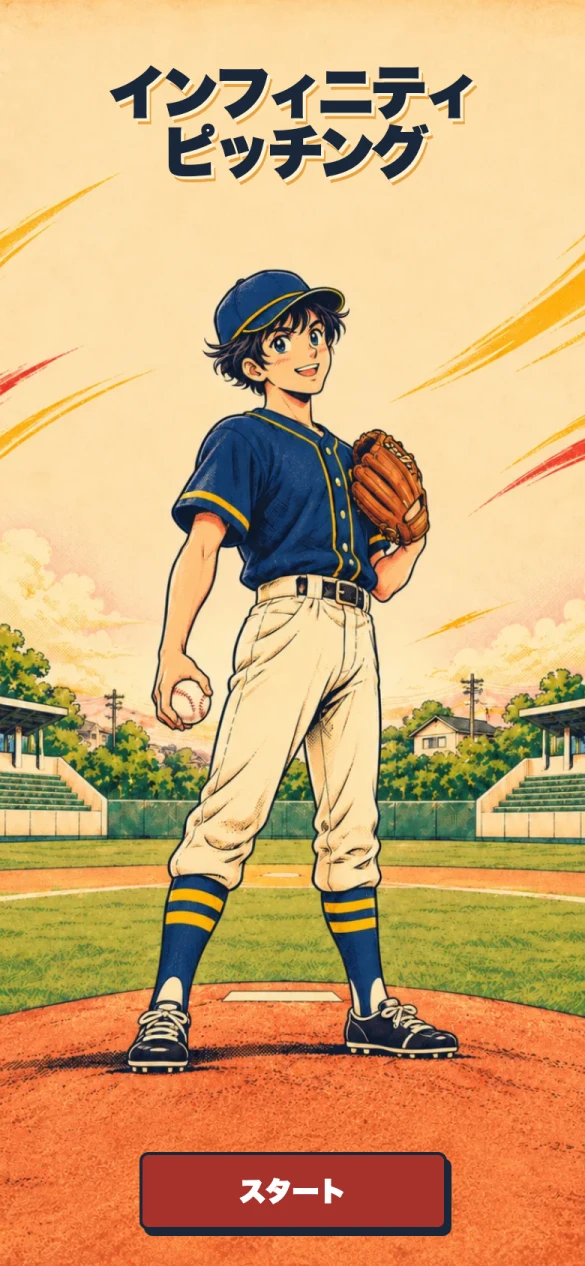
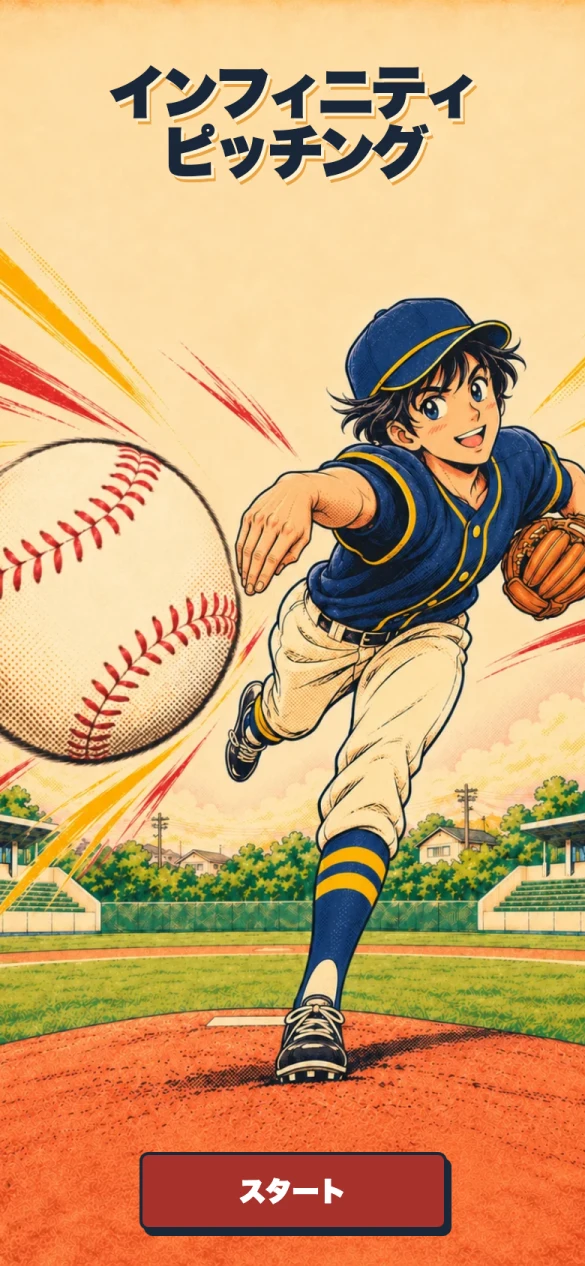
Use a single release illustration for title and menu

diff --git a/docs/renewal/menu.js b/docs/renewal/menu.js
@@ -33,13 +33,11 @@ const masthead = document.querySelector('.masthead');
 const format = new Intl.NumberFormat('ja-JP');
 const WORLD_UNLOCK_SCORE = 31;
 const MATCH_SECONDS = 20;
-const PITCH_DURATION_MS = 3040; // Total frame duration of title-pitch.gif.
 const title = '<span>インフィニティ</span><span>ピッチング</span>';
+const titleArt = '<img class="scene-art" src="assets/title-pitch-finish.webp" alt="ピッチャーが投げたボールが手前に迫る場面" fetchpriority="high">';
 let player = { ...scenarios.new };
 let page;
 let matchTimer;
-let pitchTimer;
-let pitchRun = 0;
 let requestedMode = 'home';
 let rankMode = 'world';
 let rankScope = 'global';
@@ -84,7 +82,7 @@ function home() {
   const rating = unlocked ? format.format(player.rating) : '—';
 
   return `<section class="portrait-scene lobby" aria-label="メインメニュー">
-    <img class="scene-art" src="assets/title-pitch-finish.webp" alt="ピッチャーが投げたボールが手前に迫る場面" fetchpriority="high">
+    ${titleArt}
     <nav class="corner-menu" aria-label="サブメニュー">
       ${action('TOP 1000', 'ranking', 'corner-button rank-button')}
       <div class="corner-group">
@@ -168,14 +166,9 @@ function settings() {
 const renderers = {
   splash: () => `
     <section class="portrait-scene opening" aria-labelledby="opening-title">
-      <img class="scene-art" src="assets/opening-fullshot.webp" alt="放課後のグラウンドでマウンドに立つピッチャー" fetchpriority="high">
+      ${titleArt}
       <h2 id="opening-title" class="game-title" tabindex="-1">${title}</h2>
-      ${action('スタート', 'pitch')}
-    </section>`,
-  pitch: () => `
-    <section class="portrait-scene pitch-scene" aria-label="投球アニメーション">
-      <img class="scene-art" src="assets/opening-fullshot.webp" alt="">
-      ${action('スキップ', 'home', 'skip-pitch')}
+      ${action('スタート', 'home')}
     </section>`,
   name: () => panel('選手名を登録', `
     <form class="form" id="name-form">
@@ -259,43 +252,13 @@ function startMatching() {
 
 function navigate(next, focus = true) {
   clearInterval(matchTimer);
-  clearTimeout(pitchTimer);
   page = next === 'world' && !canEnterWorld() ? 'unlock' : next;
   display.innerHTML = renderers[page]();
   const playerLabel = player.name || 'ゲスト';
   display.querySelectorAll('[data-player-name]').forEach(element => { element.textContent = playerLabel; });
-  masthead.hidden = ['splash', 'pitch', 'home', 'name'].includes(page);
+  masthead.hidden = ['splash', 'home', 'name'].includes(page);
   if (page === 'matching') startMatching();
-  if (focus) display.querySelector('h2, .skip-pitch')?.focus();
-}
-
-function playPitch() {
-  if (page !== 'splash') return;
-  if (matchMedia('(prefers-reduced-motion: reduce)').matches) {
-    navigate('home');
-    return;
-  }
-
-  navigate('pitch');
-  const scene = display.querySelector('.pitch-scene');
-  const still = scene.querySelector('.scene-art');
-  const animation = new Image();
-  animation.className = 'scene-art';
-  animation.alt = '';
-  animation.fetchPriority = 'high';
-  const finish = () => {
-    if (scene.isConnected) navigate('home');
-  };
-  pitchTimer = setTimeout(finish, 4000);
-  animation.onload = () => {
-    if (!still.isConnected) return;
-    still.replaceWith(animation);
-    clearTimeout(pitchTimer);
-    pitchTimer = setTimeout(finish, PITCH_DURATION_MS);
-  };
-  animation.onerror = finish;
-  const run = pitchRun++;
-  animation.src = run === 0 ? 'assets/title-pitch.gif' : `assets/title-pitch.gif?replay=${run}`;
+  if (focus) display.querySelector('h2')?.focus();
 }
 
 function chooseScenario(key) {
@@ -321,7 +284,6 @@ document.addEventListener('click', event => {
   if (!button) return;
   const { scenario, go, rankMode: modeFilter, rankScope: scopeFilter, equip } = button.dataset;
   if (scenario) chooseScenario(scenario);
-  else if (go === 'pitch') playPitch();
   else if (['solo', 'world', 'friend'].includes(go) && !player.name) {
     requestedMode = go;
     navigate('name');

diff --git a/docs/renewal/menu.html b/docs/renewal/menu.html
@@ -5,7 +5,6 @@
   <meta name="viewport" content="width=device-width, initial-scale=1, viewport-fit=cover">
   <title>インフィニティピッチング · 타이틀 시안</title>
   <link rel="stylesheet" href="menu.css">
-  <link rel="preload" href="assets/title-pitch.gif" as="image" fetchpriority="low">
   <link rel="preload" href="assets/title-pitch-finish.webp" as="image">
   <script src="menu.js" defer></script>
 </head>
@@ -14,7 +13,7 @@
     <aside class="review-note" aria-labelledby="review-heading">
       <p class="folio">INFINITY PITCHING / DESIGN STUDY</p>
       <h1 id="review-heading">인피니티<br>피칭<span>.</span></h1>
-      <p class="review-copy">일본어 타이틀에서 시작을 누르면 투구 장면을 거쳐 게임 메뉴가 나타납니다. 선수 상태를 바꿔 31점 해금 전후의 메뉴를 확인할 수 있습니다.</p>
+      <p class="review-copy">일본어 타이틀에서 시작을 누르면 투구 일러스트 위에 메뉴가 나타납니다. 선수 상태를 바꿔 31점 해금 전후의 메뉴를 확인할 수 있습니다.</p>
       <fieldset class="scenario">
         <legend>선수 상태</legend>
         <button type="button" data-scenario="new" aria-pressed="true">타이틀 다시 보기</button>

diff --git a/docs/renewal/menu.css b/docs/renewal/menu.css
@@ -132,13 +132,7 @@ h1, h2, h3, p { margin: 0; }
   width: min(100%, 205px);
   font-size: 18px;
 }
-.pitch-scene {
-  display: flex;
-  justify-content: end;
-  align-items: end;
-  padding: 16px max(16px, env(safe-area-inset-right)) max(16px, env(safe-area-inset-bottom)) 16px;
-}
-.skip-pitch, .corner-button {
+.corner-button {
   min-width: 44px;
   min-height: 44px;
   border: 2px solid var(--ink);
@@ -148,7 +142,6 @@ h1, h2, h3, p { margin: 0; }
   font-weight: 900;
   box-shadow: 2px 2px 0 var(--ink);
 }
-.skip-pitch { padding-inline: 11px; font-size: 13px; }
 .lobby {
   display: grid;
   grid-template-rows: auto auto 1fr auto;
@@ -314,7 +307,7 @@ input[type="range"] { width: 100%; min-height: 44px; margin: 0; accent-color: va
 }
 @media (max-width: 480px) {
   .review:has(.portrait-scene) { grid-template-columns: minmax(0, 1fr); }
-  .review:has(.opening, .pitch-scene) .review-note { display: none; }
+  .review:has(.opening) .review-note { display: none; }
   .portrait-scene { aspect-ratio: auto; }
 }
 @media (max-width: 359px) {

diff --git a/docs/renewal/README.md b/docs/renewal/README.md
@@ -2,26 +2,25 @@
 
 **방과 후 야구부**를 게임 전체의 얼굴로 잡는다. 예전 야구 만화의 검은 외곽선, 망점 인쇄, 종이색, 큰 공의 원근감을 활용한다. 주인공은 15–16세 정도의 야구부 선수로, 작은 체격과 둥근 얼굴선, 밝고 집중한 표정, 여유 있는 유니폼을 쓴다. 특정 성별로 강하게 읽히는 얼굴이나 체격을 피하고, 투구의 힘은 손과 공의 원근, 대각선 구도와 스피드라인으로 표현한다. 참고 사진의 캐릭터, 팀명, 모자 로고는 게임 고유의 디자인으로 새로 만든다.
 
-[타이틀부터 체험](menu.html) · [오프닝 미리보기](assets/opening-preview.webp) · [투구 GIF](assets/title-pitch.gif) · [메뉴 미리보기](assets/menu-preview.webp) · [인게임 아트 보드](assets/field-studies.webp)
+[타이틀부터 체험](menu.html) · [오프닝 미리보기](assets/opening-preview.webp) · [투구 일러스트](assets/title-pitch-finish.webp) · [메뉴 미리보기](assets/menu-preview.webp) · [인게임 아트 보드](assets/field-studies.webp)
 
 ![투구가 끝난 뒤 인피니티 피칭 메인 메뉴](assets/menu-preview.webp)
 
 ## 타이틀에서 메인 메뉴로
 
-1. 9:16 오프닝에 마운드에 선 투수의 전신과 일본어 타이틀 **インフィニティピッチング**을 보여준다.
-2. ‘スタート’를 누르면 오른손 투수가 오른발을 축으로 왼무릎을 들고, 왼발을 디딘 뒤 오른손으로 던진다. 첫 자세와 마지막 원근 컷을 연결한 [Magnific 연속 영상](https://www.magnific.com/app/creation/eIyBZmJdqL)에서 73개 프레임을 그대로 추출했다. GIF는 3.04초이며 한 번 재생한다.
-3. GIF의 마지막 프레임을 고화질 정지 화면으로 이어 붙인다. 화면 앞까지 다가온 공과 투수의 자세가 고정된 상태에서 좌상단에 **TOP 1000**, 우상단에 **컬렉션·설정**, 가운데에 기존 말풍선을 띄운다. 하단에는 선수 기록, 세 게임 모드와 플레이·구매 정보를 표시한다.
+1. 9:16 화면에 공이 카메라 앞으로 크게 날아오는 투구 직후 일러스트와 일본어 타이틀 **インフィニティピッチング**을 보여준다.
+2. ‘スタート’를 누르면 같은 일러스트 위에 바로 메뉴가 뜬다. 좌상단에 **TOP 1000**, 우상단에 **컬렉션·설정**, 가운데에 기존 말풍선을 표시한다. 하단에는 선수 기록, 세 게임 모드와 플레이·구매 정보를 둔다.
 
 > よしっ！世界一のピッチャーになるために、<br>
 > 今日も特訓だ！
 
-‘スキップ’을 누르거나 기기에 동작 줄이기가 설정되어 있으면 고정 컷과 메뉴를 바로 보여준다. 첫 접속에는 게스트 상태로 홈을 먼저 둘러볼 수 있고, 처음 게임 모드를 선택할 때 선수 이름 등록을 안내한다.
+첫 접속에는 게스트 상태로 홈을 먼저 둘러볼 수 있고, 처음 게임 모드를 선택할 때 선수 이름 등록을 안내한다.
 
 ## 일러스트 방향
 
 | 시안 | 그림과 색 | 배치 |
 | --- | --- | --- |
-| **A. 방과 후 야구부 · 메인** | 아이보리 종이, 잉크 남색 유니폼, 머스터드 햇빛, 주홍 스피드라인. 오프닝은 마운드 위 투수의 전신, 홈은 공이 카메라를 향해 날아드는 투구 직후의 원근 컷을 담는다. | 오프닝, 홈, 앱 대표 이미지 |
+| **A. 방과 후 야구부 · 메인** | 아이보리 종이, 잉크 남색 유니폼, 머스터드 햇빛, 주홍 스피드라인. 타이틀과 홈에서 공이 카메라를 향해 날아드는 동일한 원근 컷을 사용한다. | 오프닝, 홈, 앱 대표 이미지 |
 | **B. 동네 연습장 · 솔로/친구** | 낮은 관중석, 흙빛 마운드, 잔디색. 좌우 가장자리에 배경 요소를 두고, 번호판 뒤는 낮은 대비의 큰 색면을 사용한다. | 나홀로 특훈, 친구와 특훈, 튜토리얼 |
 | **C. 야간 교류전 · 배틀** | 잉크 남색 하늘, 따뜻한 조명과 주홍 전광판. 관중은 작게 처리하고, 조명은 코트 가장자리에 둔다. | 세계 8인 배틀 로비, 경기 시작, 배틀 결과 |
 
@@ -33,7 +32,7 @@ A/B/C는 서로 다른 브랜드 후보가 아니라 같은 캐릭터와 인쇄 
 
 | 제작 묶음 | 다음 시안에서 필요한 리소스와 기준 |
 | --- | --- |
-| 타이틀·런처 | 회사 로고 스플래시와 오프닝을 분리한다. [오프닝 원화](assets/opening-fullshot.webp)는 9:16 세로 전신 컷으로, 모자부터 양쪽 스파이크까지 들어온다. 일본어 타이틀 `インフィニティピッチング`은 별도 텍스트 레이어에 둔다. 앱 아이콘은 공과 모자의 실루엣으로 제작한다. |
+| 타이틀·런처 | 회사 로고 스플래시와 오프닝을 분리한다. 일본어 타이틀 `インフィニティピッチング`은 별도 텍스트 레이어에 둔다. 앱 아이콘은 공과 모자의 실루엣으로 제작한다. |
 | 홈·로비 아트 | [홈 고정 컷](assets/title-pitch-finish.webp)은 오프닝과 같은 9:16이다. 얼굴과 공이 말풍선에 가리지 않는지 확인한다. 야간 구장 로비 시안은 보드에서 확인할 수 있다. |
 | 투수·카트 | 동일 인물의 준비·릴리스 포즈와 카트. 투수 스프라이트는 투명 PNG, 같은 프레임 크기와 발 기준점으로 제공한다. 동작 교체 시 좌우 중심과 바닥 위치가 튀지 않아야 한다. |
 | 게임 필드·블록 | 1080×1920 논리 화면 기준으로 낮과 밤 배경을 분리한다. 10열 블록의 숫자는 Canvas 텍스트로 유지하고, 기본 블록과 목표 블록의 윤곽·명도 차이를 확보한다. |
@@ -46,7 +45,7 @@ A/B/C는 서로 다른 브랜드 후보가 아니라 같은 캐릭터와 인쇄 
 
 | 상태 또는 화면 | 리뉴얼 정의 |
 | --- | --- |
-| 첫 실행 | 세로 전신 타이틀 → 투구 GIF → 메인 메뉴. 첫 모드 선택 시 선수 이름 등록 → 선택했던 모드로 이동한다. 이름 제한과 변경 불가 안내는 입력 아래에 두고, Google·Apple 복원은 같은 화면에서 접근한다. |
+| 첫 실행 | 세로 타이틀에서 ‘スタート’를 누르면 같은 그림 위에 메인 메뉴가 뜬다. 첫 모드 선택 시 선수 이름 등록 → 선택했던 모드로 이동한다. 이름 제한과 변경 불가 안내는 입력 아래에 두고, Google·Apple 복원은 같은 화면에서 접근한다. |
 | 홈 · 솔로 최고 31점 미만 | **나홀로 특훈**이 주 버튼이다. 세계 8인 배틀에 ‘솔로 최고 24 / 31점’처럼 진행을 표시한다. 잠긴 항목을 열면 해금 안내와 솔로로 가는 버튼을 보여준다. 친구와 특훈은 바로 접근할 수 있다. |
 | 홈 · 솔로 최고 31점 이상 | **세계 8인 배틀**이 주 버튼이 된다. 나홀로 특훈과 친구와 특훈은 같은 줄에 둔다. 홈 기록 카드는 선수명·솔로 최고·배틀 PT만 읽히게 하고, 리그와 누적 우승은 배틀 로비에서 보여준다. |
 | 세계 8인 배틀 | 로비에서 리그, 승점, 누적 우승을 본다. 일반은 1,200 PT 이하, 마스터는 1,200 PT 초과다. ‘빠른 매칭’ 후 카운트다운·실제 선수 수·8칸 슬롯·취소를 한 화면에 둔다. 최대 20초 대기와 빈자리 봇 충원 규칙을 따르고, 로비 진입만으로 매칭을 시작하지 않는다. |
